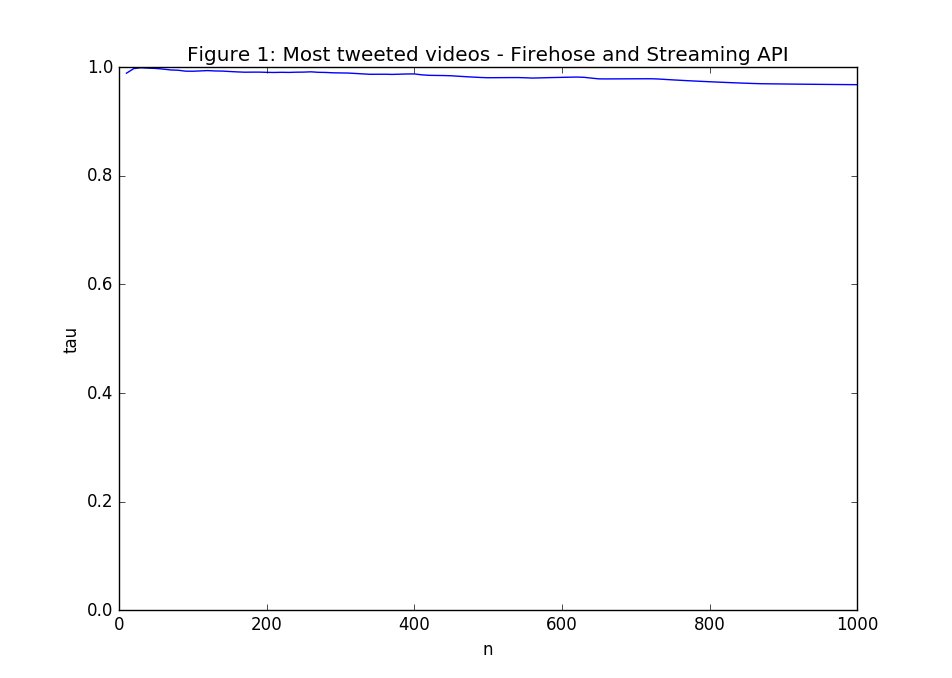
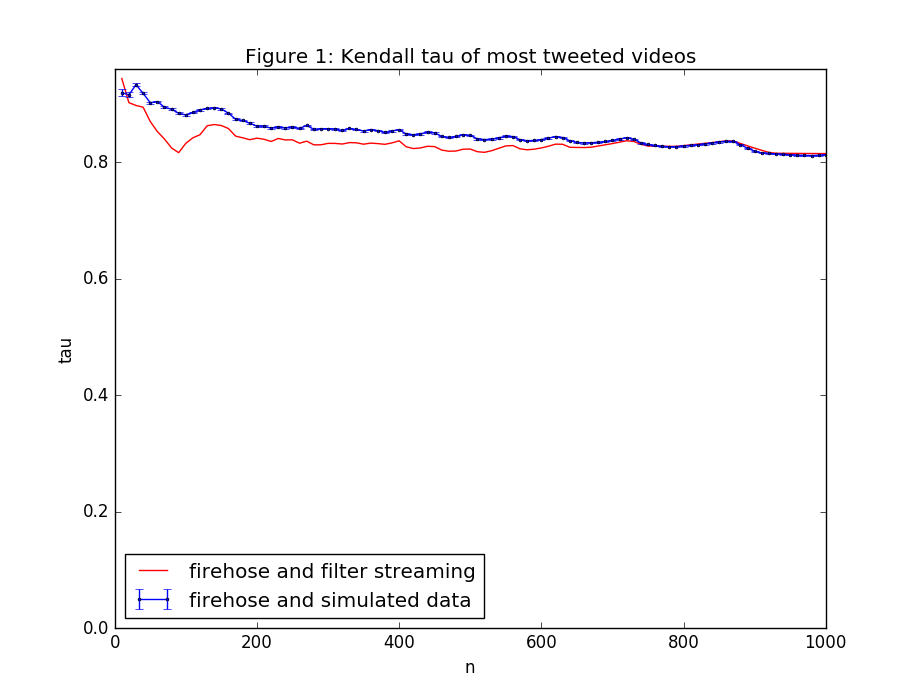
[sampling] re-implement kendall tau-b and update plot

diff --git a/plot/plot_sampling_kendall_tau.py b/plot/plot_sampling_kendall_tau.py
@@ -1,52 +1,112 @@
 #!/usr/bin/python
 
 # Usage example:
-# python plot_sampling_kendall_tau.py --sample='<sample_file>' --complete='<complete_file>'
+# python plot_sampling_kendall_tau.py --file1='<file1>' --file2='<file2>'
+# python plot_sampling_kendall_tau.py --file1=data/sample_tweetcount.txt --file2=simulate_tweetcount_000.txt
+# python plot_sampling_kendall_tau.py -f1 data/sample_tweetcount.txt -f2 data/complete_tweetcount.txt -d data/simulate_tweetcount
 
 import os
 import argparse
+import operator
+from collections import defaultdict
 from scipy import stats
+import math
 import numpy as np
 import matplotlib.pyplot as plt
 
-
 BASE_DIR = '../'
+
+
+def get_kendall_tau(path1, path2):
+    item_ranking = defaultdict(list)
+    with open(path1, 'r') as f:
+        for line in f:
+            vid, tweetcount = line.rstrip().split()
+            item_ranking[vid].append(int(tweetcount))
+
+    with open(path2, 'r') as f:
+        for line in f:
+            vid, tweetcount = line.rstrip().split()
+            if vid not in item_ranking:
+                item_ranking[vid].append(0)
+            item_ranking[vid].append(int(tweetcount))
+
+    # fill zero in vid not appear in file2
+    for tweetcounts in item_ranking.values():
+        if len(tweetcounts) == 1:
+            tweetcounts.append(0)
+
+    # sort by value of file1
+    sorted_item_ranking = sorted(item_ranking.items(), key=operator.itemgetter(1), reverse=True)
+    file1_list = []
+    file2_list = []
+    for item in sorted_item_ranking:
+        file1_list.append(item[1][0])
+        file2_list.append(item[1][1])
+
+    taus = []
+    for i in xrange(start, end + 1, jump):
+        tau, p_value = stats.kendalltau(file1_list[:i], file2_list[:i])
+        taus.append(tau)
+
+    return taus
+
+
+def plot_errorbar(taus_list, color, label_text):
+    transpose_taus = map(list, zip(*taus_list))
+    z_critical = stats.norm.ppf(q=0.95)
+    sample_size = len(transpose_taus[0])
+
+    mean_list = []
+    error_list = []
+
+    for taus in transpose_taus:
+        mean = np.mean(taus)
+        std = np.std(taus)
+        error = z_critical * (std / math.sqrt(sample_size))
+        mean_list.append(mean)
+        error_list.append(error)
+
+    ax1.errorbar(np.arange(start, end + 1, jump), mean_list, yerr=error_list, c=color, fmt='o-',
+                 markersize='2', label=label_text)
 
 
 if __name__ == '__main__':
     # Instantiate the parser
     parser = argparse.ArgumentParser()
-    parser.add_argument('-s', '--sample', help='input file path of sample data, relative to base dir', required=True)
-    parser.add_argument('-c', '--complete', help='output file path of complete data, relative to base dir', required=True)
+    parser.add_argument('-f1', '--file1', help='file1 path, relative to base dir', required=True)
+    parser.add_argument('-f2', '--file2', help='file2 path, relative to base dir')
+    parser.add_argument('-d', '--dir', help='directory path, relative to base dir')
     args = parser.parse_args()
 
-    sample_path = os.path.join(BASE_DIR, args.sample)
-    complete_path = os.path.join(BASE_DIR, args.complete)
-
-    sample_ranking = []
-    with open(sample_path, 'r') as f:
-        for line in f:
-            sample_ranking.append(int(line.rstrip().split()[1]))
-
-    complete_ranking = []
-    with open(complete_path, 'r') as f:
-        for line in f:
-            complete_ranking.append(int(line.rstrip().split()[1]))
-
-    taus = []
-    p_values = []
-    for i in xrange(10, 1001, 10):
-        tau, p_value = stats.kendalltau(sample_ranking[:i], complete_ranking[:i])
-        taus.append(tau)
-        p_values.append(p_value)
-
-    # fig, (ax1, ax2) = plt.subplots(1, 2)
     fig, ax1 = plt.subplots(1, 1)
-    ax1.plot(np.arange(10, 1001, 10), taus)
+    start = 10
+    end = 5000
+    jump = 10
+    # simulate and filter streaming
+    taus_list1 = []
+    # simulate and firehose
+    taus_list2 = []
+
+    file1_path = os.path.join(BASE_DIR, args.file1)
+    if args.file2 is not None:
+        file2_path = os.path.join(BASE_DIR, args.file2)
+        taus = get_kendall_tau(file2_path, file1_path)
+        ax1.plot(np.arange(start, end+1, jump), taus, c='r', label='firehose and filter streaming')
+    if args.dir is not None:
+        dir_path = os.path.join(BASE_DIR, args.dir)
+        for subdir, _, files in os.walk(dir_path):
+            for f in files:
+                taus_list1.append(get_kendall_tau(file1_path, os.path.join(subdir, f)))
+                taus_list2.append(get_kendall_tau(file2_path, os.path.join(subdir, f)))
+
+        # plot_errorbar(taus_list1, 'b', 'filter streaming and simulated data')
+        plot_errorbar(taus_list2, 'b', 'firehose and simulated data')
 
     ax1.set_ylim(ymin=0)
     ax1.set_xlabel('n')
     ax1.set_ylabel('tau')
-    ax1.set_title('Figure 1: Most tweeted videos - Firehose and Streaming API')
+    ax1.set_title('Figure 1: Kendall tau of most tweeted videos')
 
+    plt.legend(loc='best')
     plt.show()
